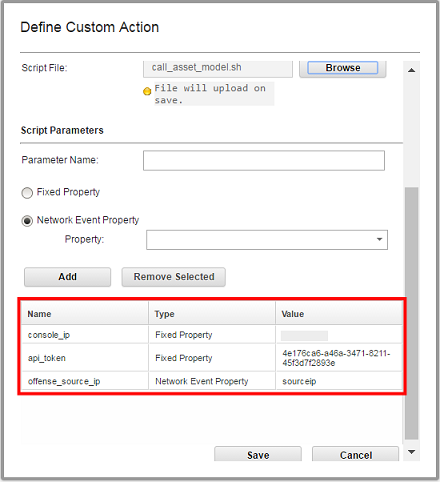
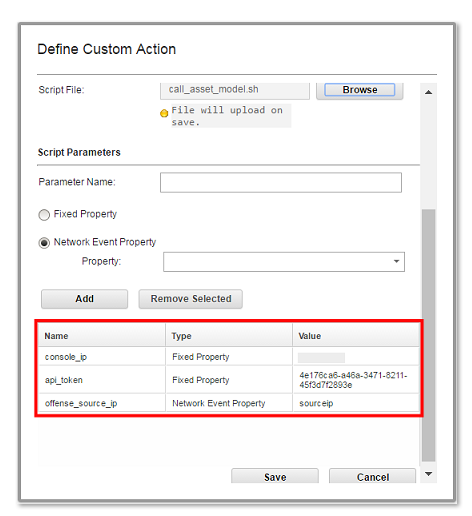
dev changes

Changed region(s): [[0.0, 0.0, 1.0, 1.0], [0.65, 0.1245, 0.9159, 0.2178]]

diff --git a/exercise_1_3.html b/exercise_1_3.html
@@ -216,7 +216,7 @@
  
  	  <p>These parameters are configured in the Define Custom Action window Script Parameters area:</p>
 	  
-	  <img src="./images/definecustomaction.png" height="508" width="554" title="Define Custom Action" alt="Define Custom Action">
+	  <img src="./images/definecustomaction.png" title="Define Custom Action" alt="Define Custom Action">
 	  
 	  <p>Each parameter is passed to the script in the order in which it was added in the Define Custom Action window. In this case:
       <ol>
